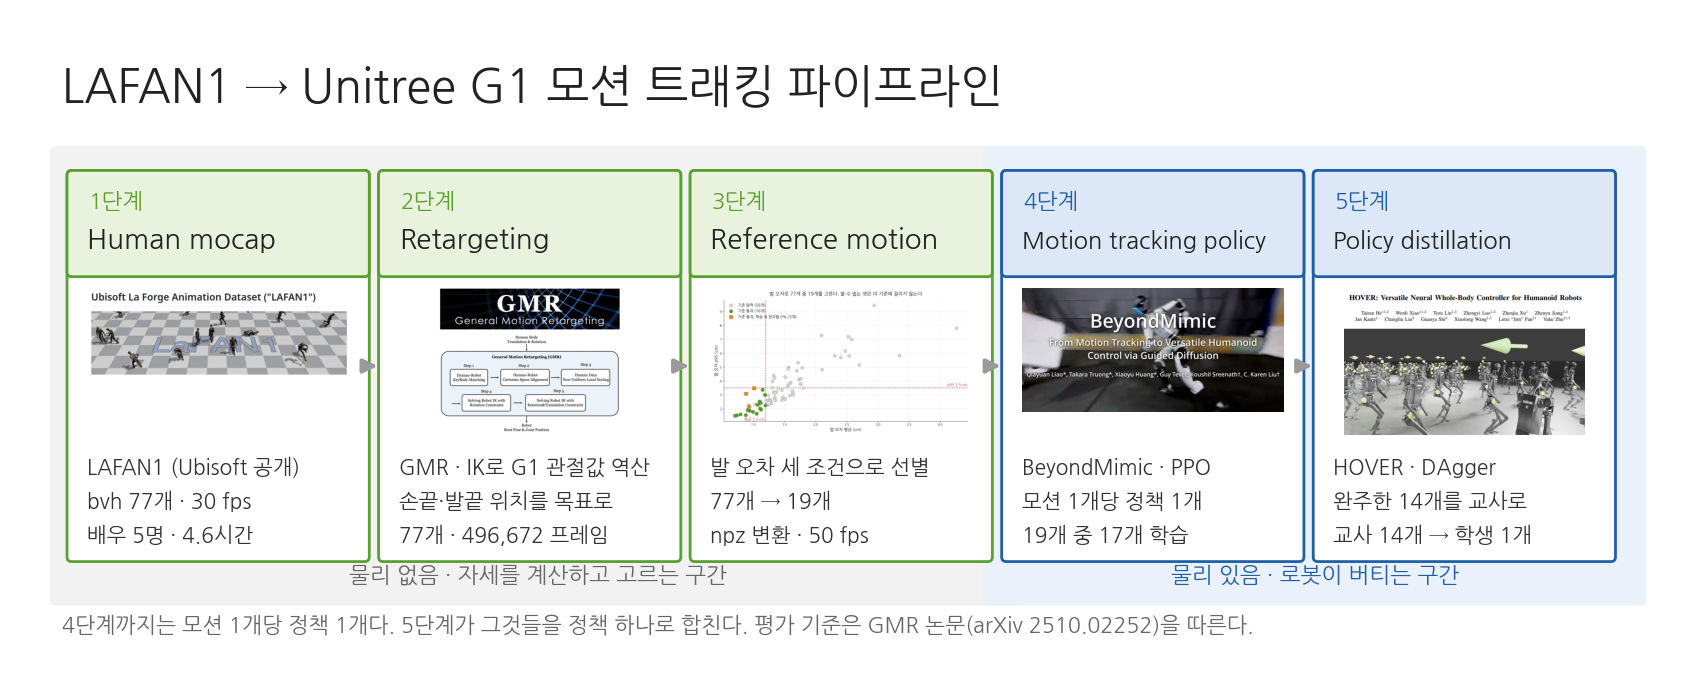
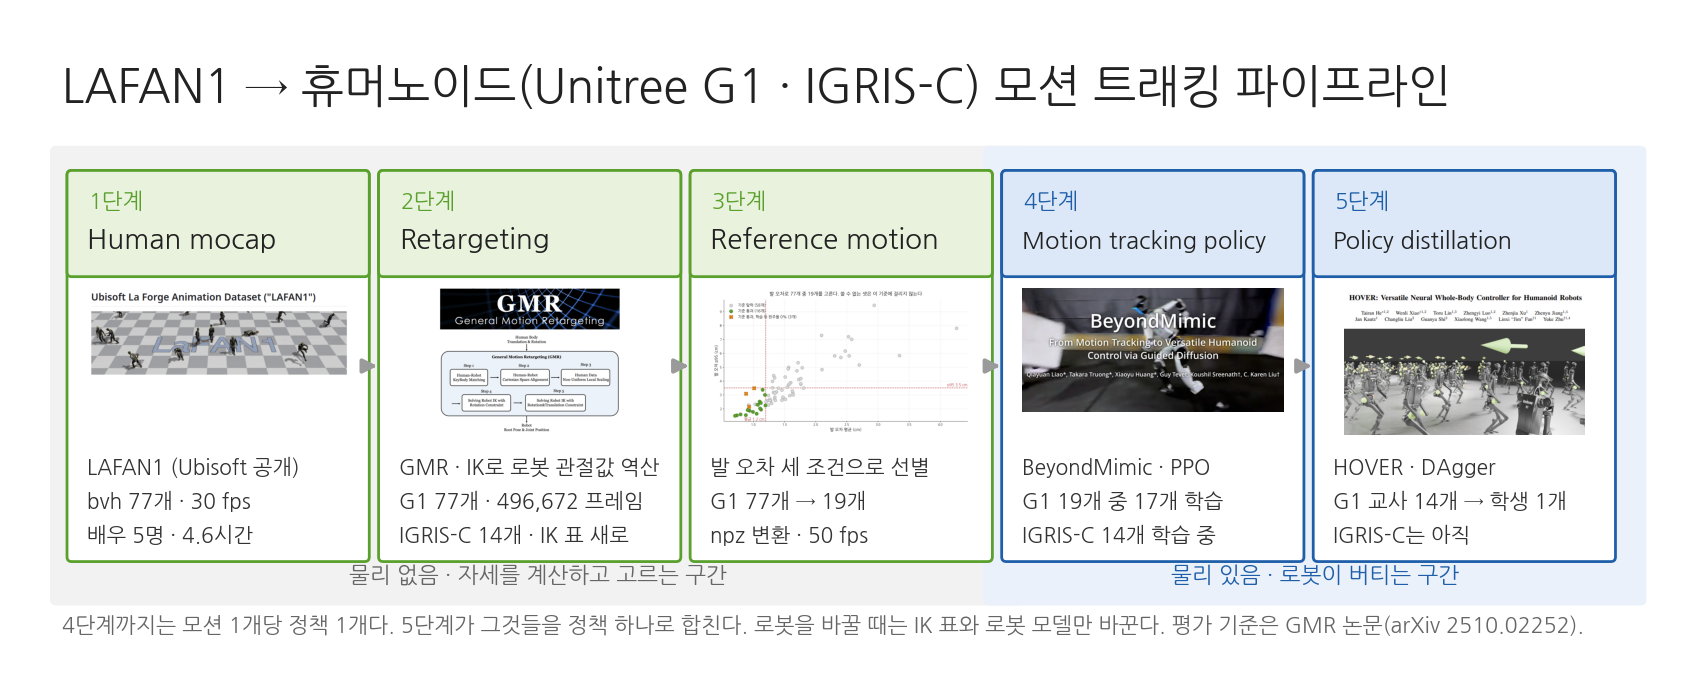
Show both robots in the pipeline figure and demo the IGRIS-C comparison
The pipeline figure now names G1 and IGRIS-C and gives each robot's
counts per stage. In the demo grid the scratch-vs-transfer clip takes
the slot of the retargeting comparison, which stays in docs/igris.md.

diff --git a/scripts/make_pipeline_figure.py b/scripts/make_pipeline_figure.py
@@ -29,25 +29,25 @@ STAGES = [
                "bvh 77개 · 30 fps",
                "배우 5명 · 4.6시간"]),
     dict(no="2단계", name="Retargeting", physics=False, thumb="stage_2.png",
-         body=["GMR · IK로 G1 관절값 역산",
-               "손끝·발끝 위치를 목표로",
-               "77개 · 496,672 프레임"]),
+         body=["GMR · IK로 로봇 관절값 역산",
+               "G1 77개 · 496,672 프레임",
+               "IGRIS-C 14개 · IK 표 새로"]),
     dict(no="3단계", name="Reference motion", physics=False, thumb="stage_3.png",
          body=["발 오차 세 조건으로 선별",
-               "77개 → 19개",
+               "G1 77개 → 19개",
                "npz 변환 · 50 fps"]),
     dict(no="4단계", name="Motion tracking policy", physics=True, thumb="stage_4.png",
          body=["BeyondMimic · PPO",
-               "모션 1개당 정책 1개",
-               "19개 중 17개 학습"]),
+               "G1 19개 중 17개 학습",
+               "IGRIS-C 14개 학습 중"]),
     dict(no="5단계", name="Policy distillation", physics=True, thumb="stage_5.png",
          body=["HOVER · DAgger",
-               "완주한 14개를 교사로",
-               "교사 14개 → 학생 1개"]),
+               "G1 교사 14개 → 학생 1개",
+               "IGRIS-C는 아직"]),
 ]
 
 NOTE = ("4단계까지는 모션 1개당 정책 1개다. 5단계가 그것들을 정책 하나로 합친다. "
-        "평가 기준은 GMR 논문(arXiv 2510.02252)을 따른다.")
+        "로봇을 바꿀 때는 IK 표와 로봇 모델만 바꾼다. 평가 기준은 GMR 논문(arXiv 2510.02252).")
 
 W, GAP, X0 = 382, 20, 75
 BOX_BOTTOM, BOX_H = 150, 500
@@ -81,7 +81,7 @@ def main(out):
     ax.set_xlim(0, total_w); ax.set_ylim(0, 860); ax.axis("off")
     fig.patch.set_facecolor("white")
 
-    ax.text(65, 745, "LAFAN1 → Unitree G1 모션 트래킹 파이프라인",
+    ax.text(65, 745, "LAFAN1 → 휴머노이드(Unitree G1 · IGRIS-C) 모션 트래킹 파이프라인",
             fontsize=33, color="#222222")
 
     n_nophys = sum(1 for s in STAGES if not s["physics"])

diff --git a/README.en.md b/README.en.md
@@ -104,7 +104,7 @@ What works and what does not were both measured.
   </tr>
   <tr>
     <td align="center"><img src="docs/kobe.gif" width="360"/><br/>Outside LAFAN1 (ASAP kobe)</td>
-    <td align="center"><img src="docs/retarget_igris.gif" width="360"/><br/>One clip, two robots (G1 | human | IGRIS-C)</td>
+    <td align="center"><img src="docs/igris_scratch_vs_transfer.gif" width="360"/><br/>IGRIS-C: from scratch | transferred from G1</td>
   </tr>
 </table>
 

diff --git a/README.md b/README.md
@@ -103,7 +103,7 @@
   </tr>
   <tr>
     <td align="center"><img src="docs/kobe.gif" width="360"/><br/>LAFAN1 밖의 동작 (ASAP kobe)</td>
-    <td align="center"><img src="docs/retarget_igris.gif" width="360"/><br/>같은 클립, 두 로봇 (G1 | 사람 | IGRIS-C)</td>
+    <td align="center"><img src="docs/igris_scratch_vs_transfer.gif" width="360"/><br/>IGRIS-C: 처음부터 학습 | G1 정책에서 옮기기</td>
   </tr>
 </table>
 
